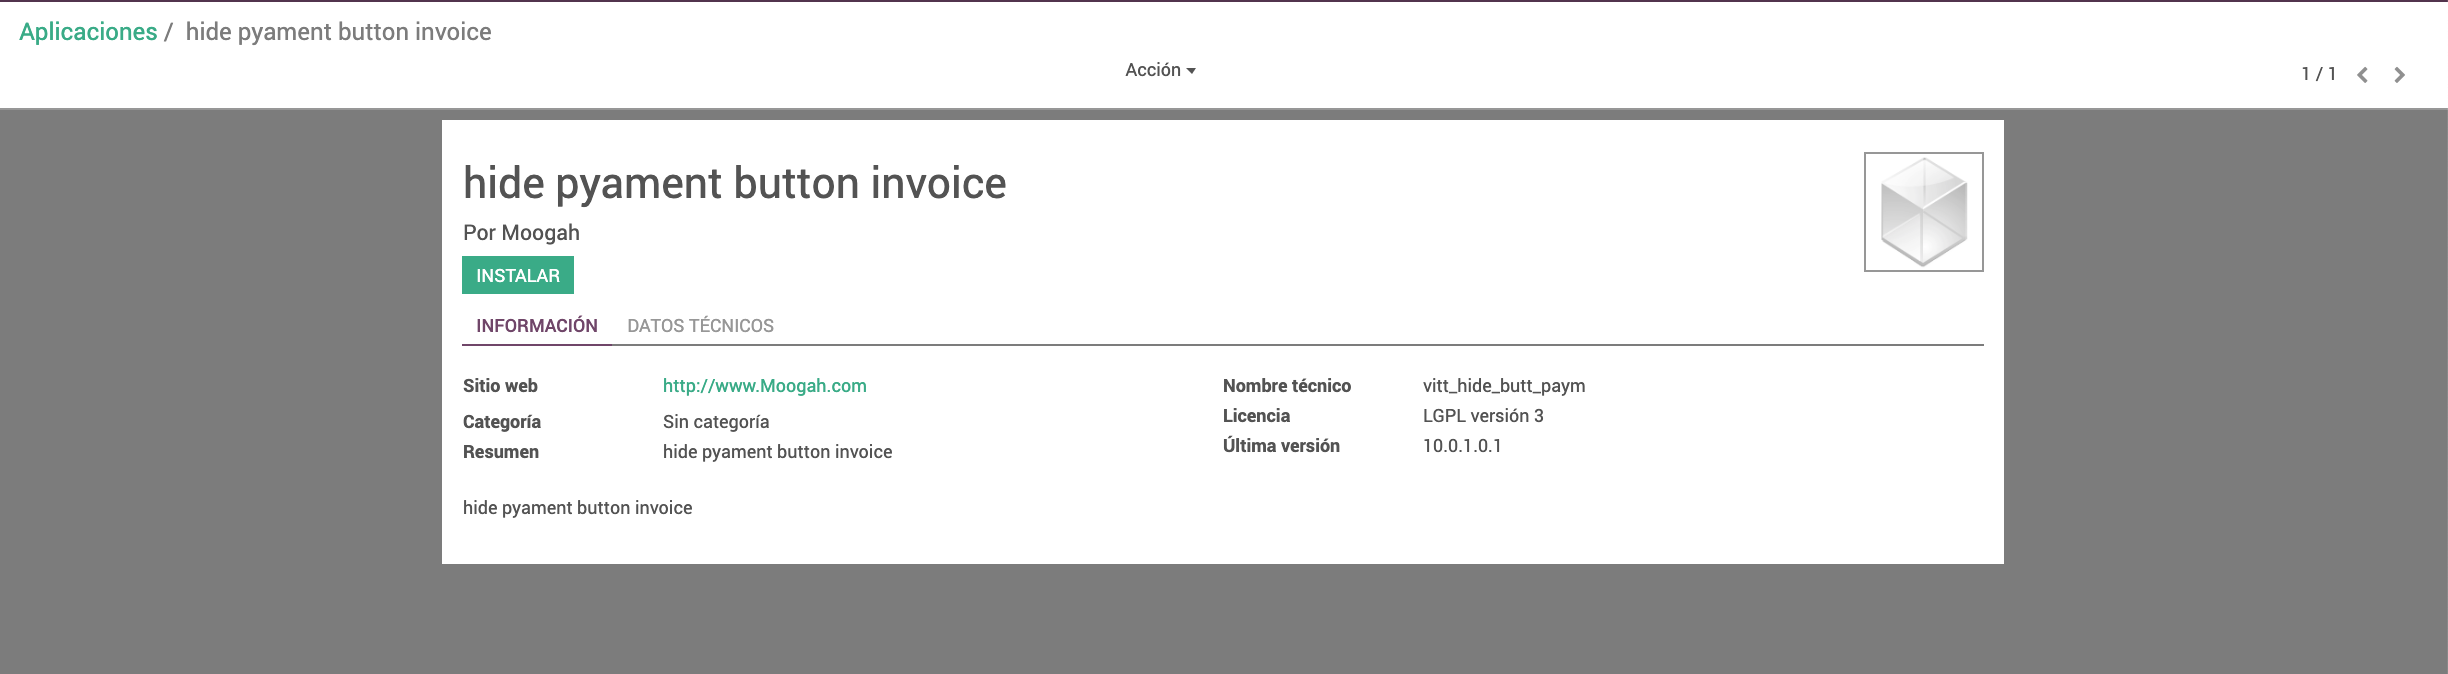
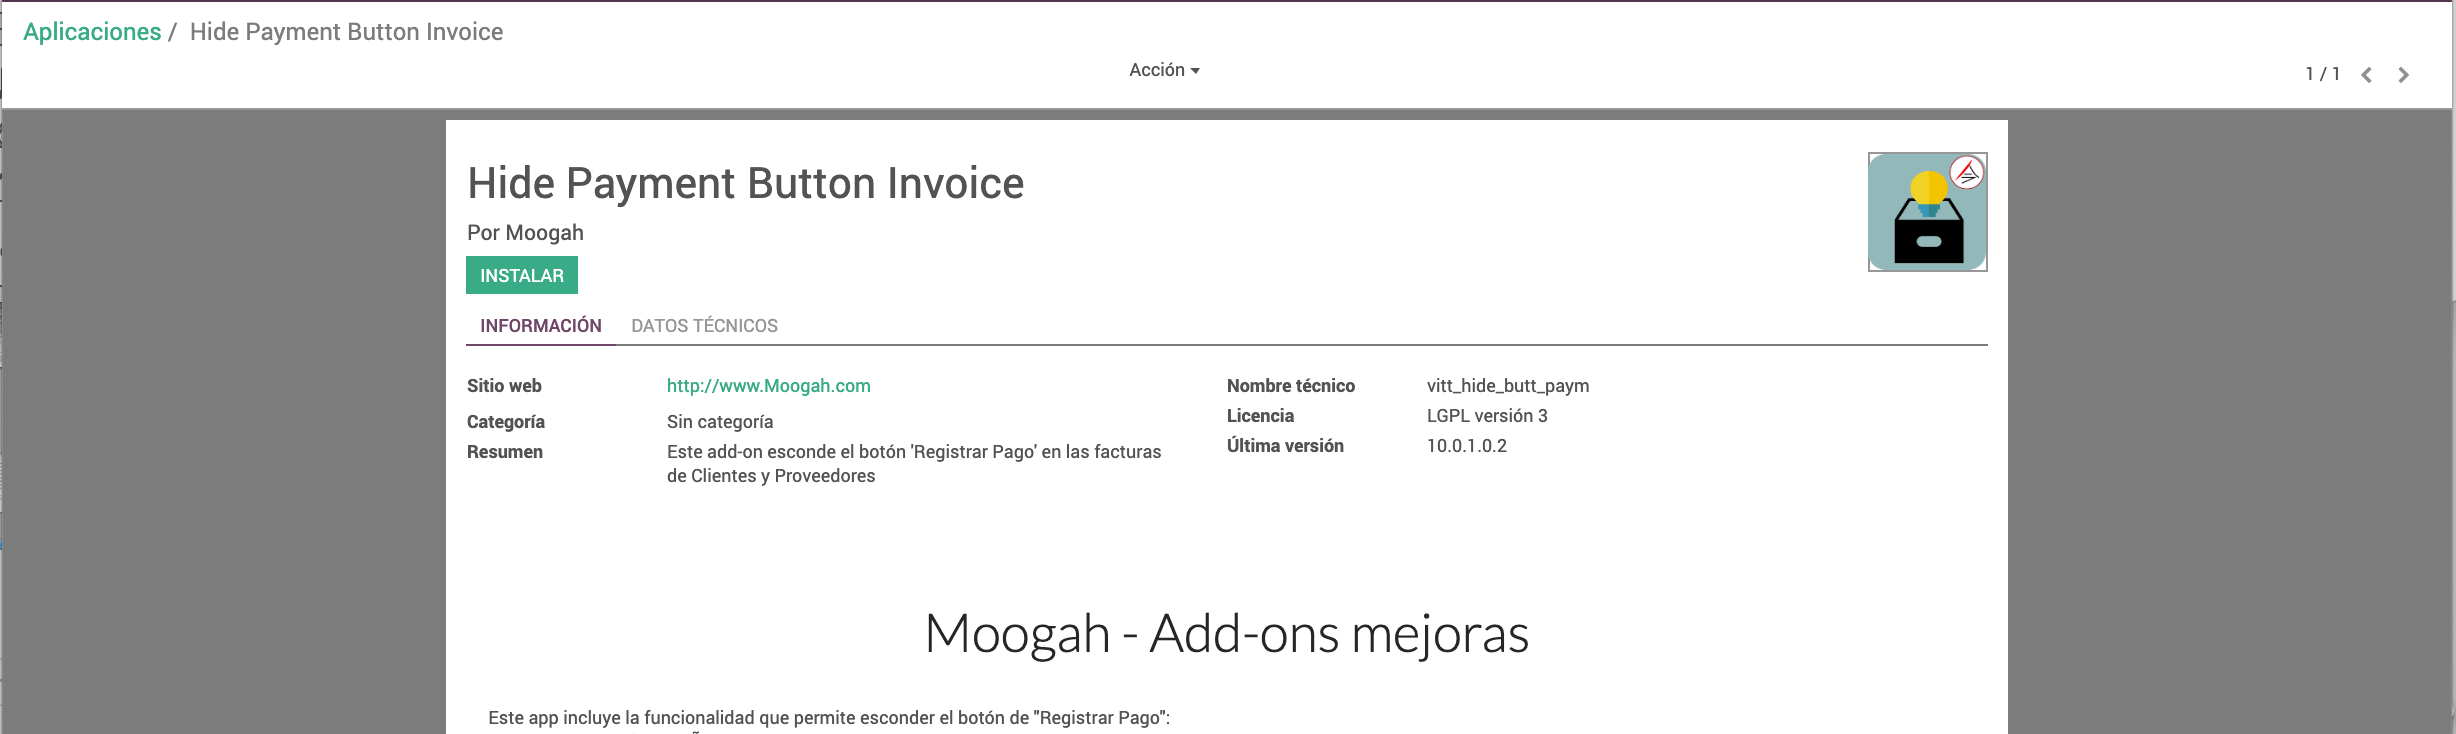
updated version

diff --git a/odoo-argentina-vitt/vitt_hide_butt_paym/static/description/index.html b/odoo-argentina-vitt/vitt_hide_butt_paym/static/description/index.html
@@ -3,10 +3,17 @@
         <div class="oe_span12">
             <h2 class="oe_slogan">Moogah - Add-ons mejoras</h2>
             <p class="oe_mt32">
-                Este app incluye la funcionalidad que permite esconder el bot&oacute;n de "Registrar Pago":<br>  - No necesita configuración, solo la instalaci&oacute;n del app.<br> - Si se des-instala el app, es necesario actualizar el app de Pagos en Grupo para recuperar el botón en la vista de las facturas.<br><br>
+                Este app incluye la funcionalidad que permite esconder el bot&oacute;n de "Registrar Pago":<br>  
+                - No necesita configuraci&oacute;n, solo la instalaci&oacute;n del app.<br> 
+                - Si se des-instala el app, es necesario actualizar el app de Pagos en Grupo para recuperar el botón en la vista de las facturas.<br><br>
             </p>
+		<div class="oe_span12">
+			<div class="oe_row_img oe_left">
+				<img class="oe_picture oe_screenshot" src="app.png">
+			</div>
+		</div>
             
-            <h3 class="oe_slogan">Fácil instalaci&oacute;n</h3>
+            <h3 class="oe_slogan">F&aacute;cil instalaci&oacute;n</h3>
         </div>
 		<div class="oe_span12">
 			<div class="oe_row_img oe_centered">

diff --git a/odoo-argentina-vitt/vitt_hide_butt_paym/__manifest__.py b/odoo-argentina-vitt/vitt_hide_butt_paym/__manifest__.py
@@ -6,7 +6,7 @@
     'author': "Moogah",
     'website': "http://www.Moogah.com",
     'category': 'Uncategorized',
-    'version': '10.0.1.0.2',
+    'version': '10.0.1.0.3',
     'depends': ['account_payment_group'],
     'data': [
         'views/views.xml',
